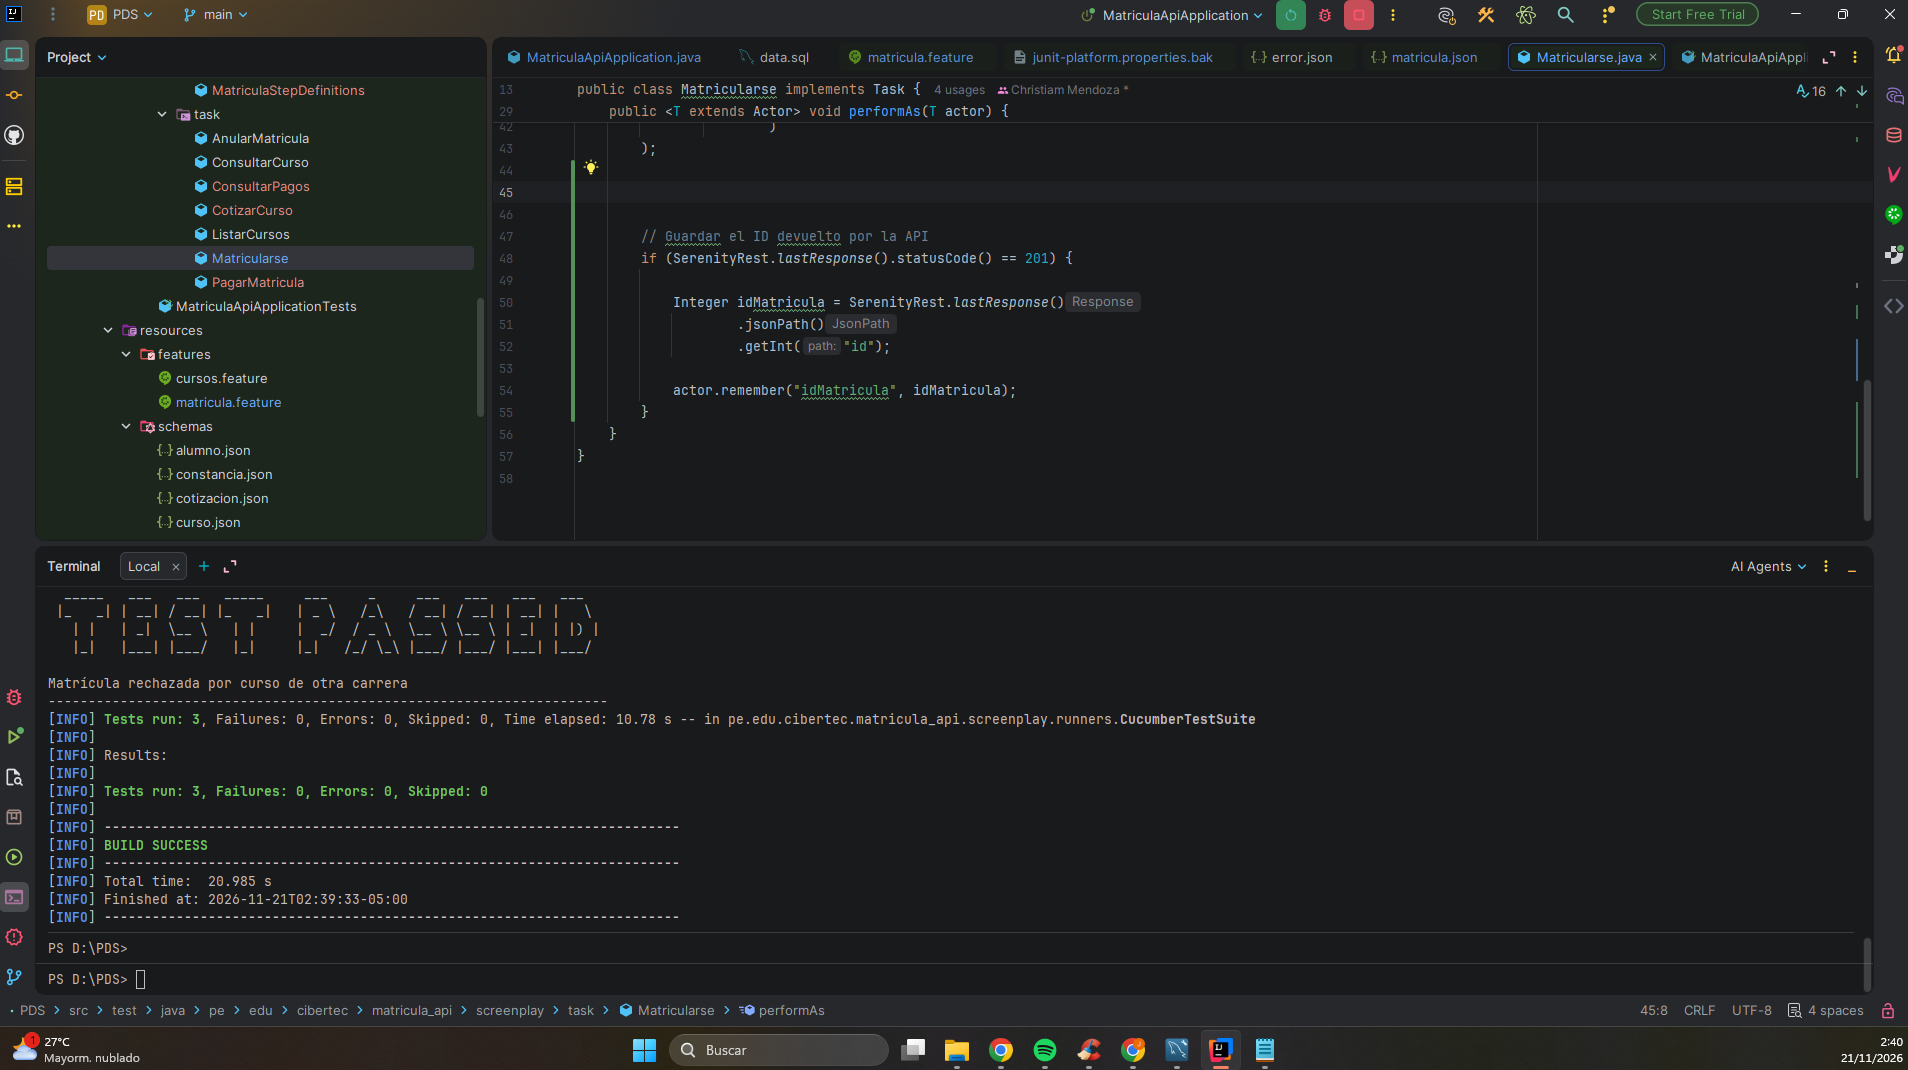
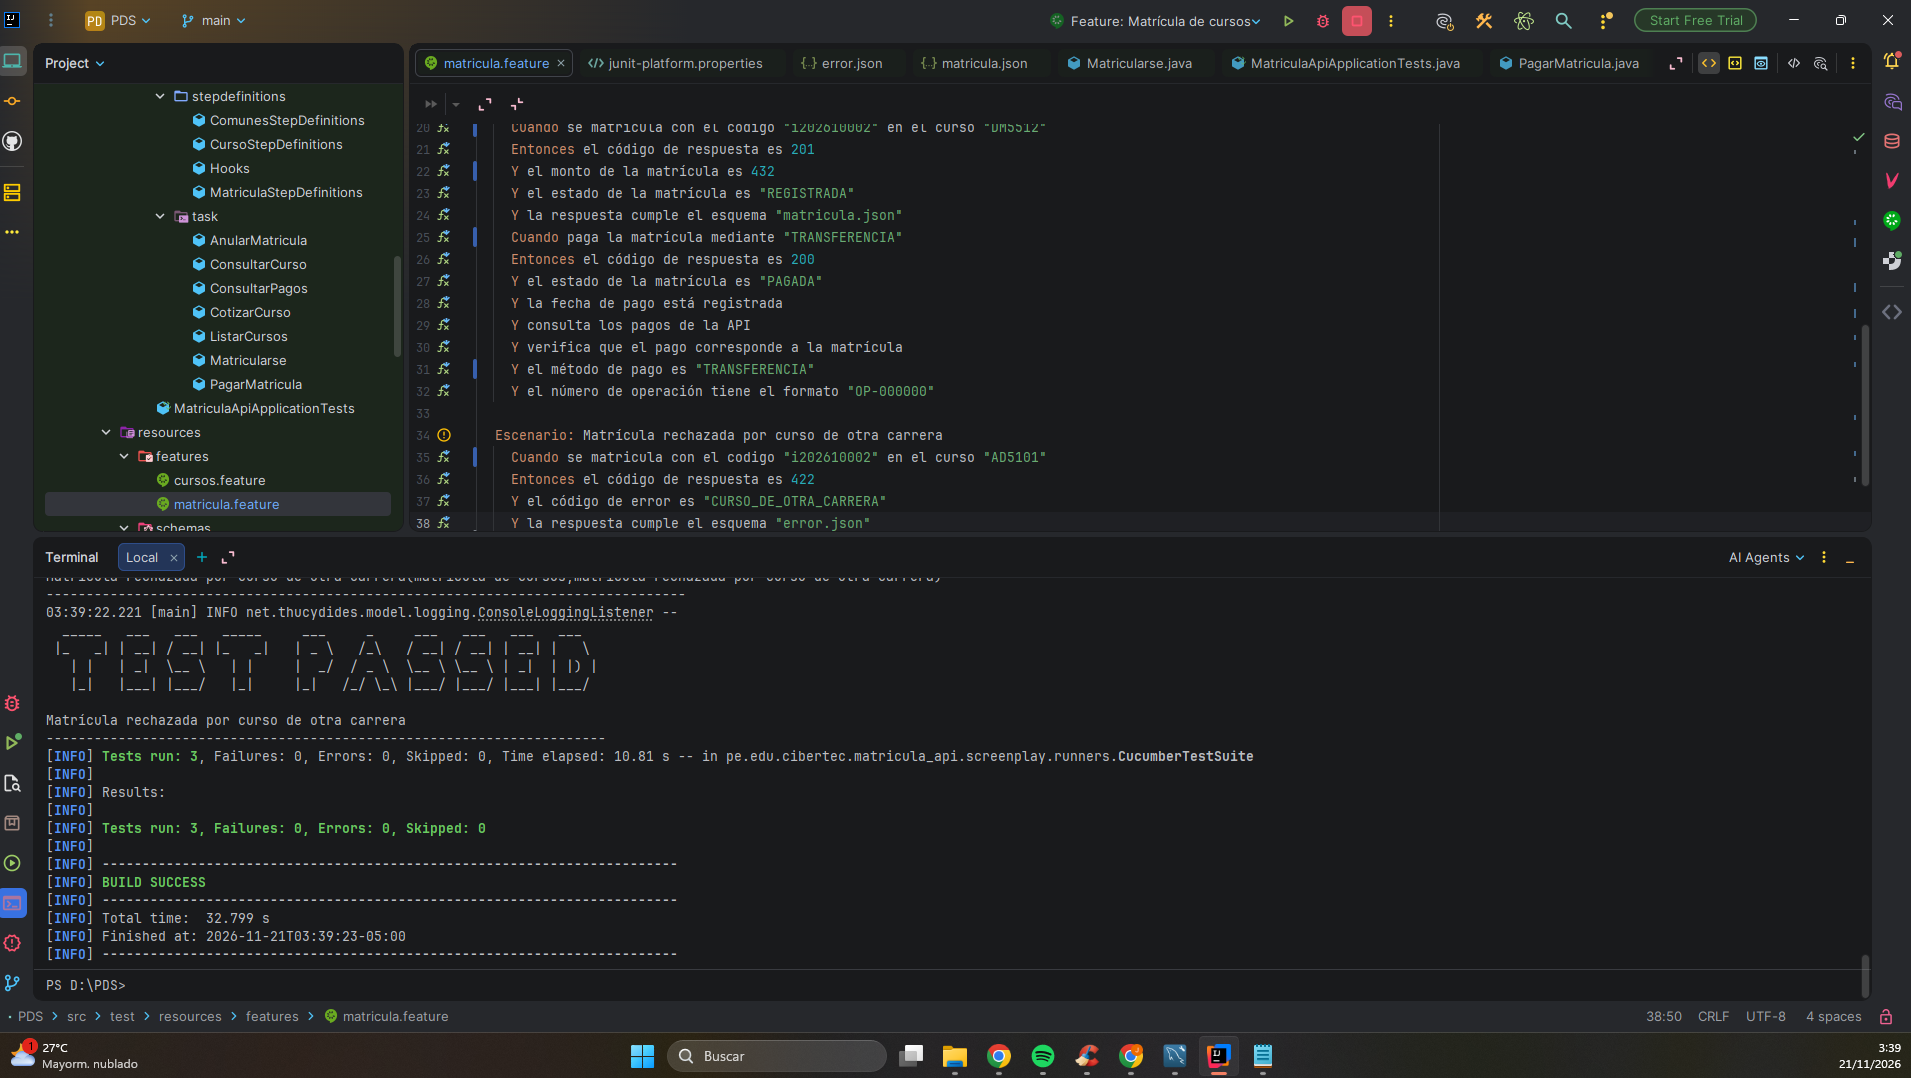
Agrega pruebas automatizadas de la Pregunta 1

diff --git a/README.md b/README.md
@@ -1,6 +1,6 @@
 ## Pregunta 1: Pruebas automatizadas de matrícula
 
-Se realizaron cinco escenarios de pruebas automatizadas utilizando Cucumber, Gherkin, Serenity BDD, Screenplay y Rest Assured.
+Se realizaron tres escenarios de pruebas automatizadas utilizando Cucumber, Gherkin, Serenity BDD, Screenplay y Rest Assured.
 
 ### Escenario 1: Cotizar curso
 
@@ -8,32 +8,34 @@ Se verifica la cotización del curso, los créditos, el subtotal, el descuento y
 
 ```json
 {
-  "codigoAlumno": "i202610003",
-  "cursos": ["TS5514"],
+  "codigoAlumno": "i202610002",
+  "cursos": [
+    "DM5512"
+  ],
   "creditos": 4,
   "subtotal": 480,
-  "descuento": 0,
-  "total": 480
+  "descuento": 10,
+  "total": 432
 }
 ```
 
 ### Escenario 2: Registrar matrícula
 
-Se verifica que la matrícula se registre correctamente.
+Se verifica que la matrícula se registre correctamente con el monto correspondiente a la cotización.
 
 ```json
 {
-  "id": 21,
-  "codigoAlumno": "i202610003",
-  "codigoCurso": "TS5514",
+  "id": 22,
+  "codigoAlumno": "i202610002",
+  "codigoCurso": "DM5512",
   "periodo": "2026-2",
-  "horario": "JUEVES 08:00-12:00",
+  "horario": "MARTES 08:00-12:00",
   "creditos": 4,
-  "monto": 480,
+  "monto": 432,
   "estado": "REGISTRADA",
   "nota": null,
   "condicion": null,
-  "fechaRegistro": "2026-11-21T00:43:08.5145514",
+  "fechaRegistro": "2026-11-21T00:44:22.8144487",
   "fechaPago": null
 }
 ```
@@ -44,50 +46,50 @@ Se verifica que el pago se procese correctamente y que el estado cambie a PAGADA
 
 ```json
 {
-  "id": 21,
-  "codigoAlumno": "i202610003",
-  "codigoCurso": "TS5514",
+  "id": 22,
+  "codigoAlumno": "i202610002",
+  "codigoCurso": "DM5512",
   "periodo": "2026-2",
-  "horario": "JUEVES 08:00-12:00",
+  "horario": "MARTES 08:00-12:00",
   "creditos": 4,
-  "monto": 480,
+  "monto": 432,
   "estado": "PAGADA",
   "nota": null,
   "condicion": null,
-  "fechaRegistro": "2026-11-21T00:43:08.514551",
-  "fechaPago": "2026-11-21T00:47:22.9929753"
+  "fechaRegistro": "2026-11-21T00:44:22.814449",
+  "fechaPago": "2026-11-21T00:48:13.2353246"
 }
 ```
 
 ### Escenario 4: Verificar pago
 
-Se verifica que el pago esté registrado con el método YAPE y el monto correspondiente.
+Se verifica que el pago esté registrado con el método TRANSFERENCIA y el monto correspondiente.
 
 ```json
 {
-  "id": 16,
-  "numeroOperacion": "OP-000016",
-  "idMatricula": 21,
-  "codigoAlumno": "i202610003",
-  "codigoCurso": "TS5514",
+  "id": 17,
+  "numeroOperacion": "OP-000017",
+  "idMatricula": 22,
+  "codigoAlumno": "i202610002",
+  "codigoCurso": "DM5512",
   "periodo": "2026-2",
-  "metodo": "YAPE",
-  "monto": 480,
-  "fecha": "2026-11-21T00:47:22.992975"
+  "metodo": "TRANSFERENCIA",
+  "monto": 432,
+  "fecha": "2026-11-21T00:48:13.235325"
 }
 ```
 
 ### Escenario 5: Matrícula rechazada
 
-Se verifica que el sistema rechace la matrícula cuando el curso pertenece a otra carrera.
+Se verifica que el sistema rechace la matrícula duplicada cuando el alumno ya se encuentra matriculado en el curso PS5511.
 
 ```json
 {
-  "detail": "El curso AD5101 pertenece a la carrera AE",
+  "detail": "El alumno ya está matriculado en PS5511",
   "instance": "/api/matriculas",
-  "status": 422,
-  "title": "Unprocessable Content",
-  "codigo": "CURSO_DE_OTRA_CARRERA"
+  "status": 409,
+  "title": "Conflict",
+  "codigo": "MATRICULA_DUPLICADA"
 }
 ```
 
@@ -99,11 +101,10 @@ Para ejecutar los escenarios automatizados:
 .\mvnw.cmd test -Dtest=CucumberTestSuite
 ```
 
-**Resultado:** Los cinco escenarios se ejecutan mediante Serenity BDD y Cucumber.
+**Resultado:** Los tres escenarios se ejecutan mediante Serenity BDD y Cucumber, incluyendo la cotización, matrícula y pago, y el rechazo por matrícula duplicada.
 
-## **_Evidencias_**
+## Evidencias
 
-Las capturas de los resultados se encuentran en la carpeta evidencias/:
+Las capturas de los resultados se encuentran en la carpeta `evidencias/`:
 
-
-01-ejecucion-todos-los-tests.png
+- `01-ejecucion-todos-los-tests.png`
